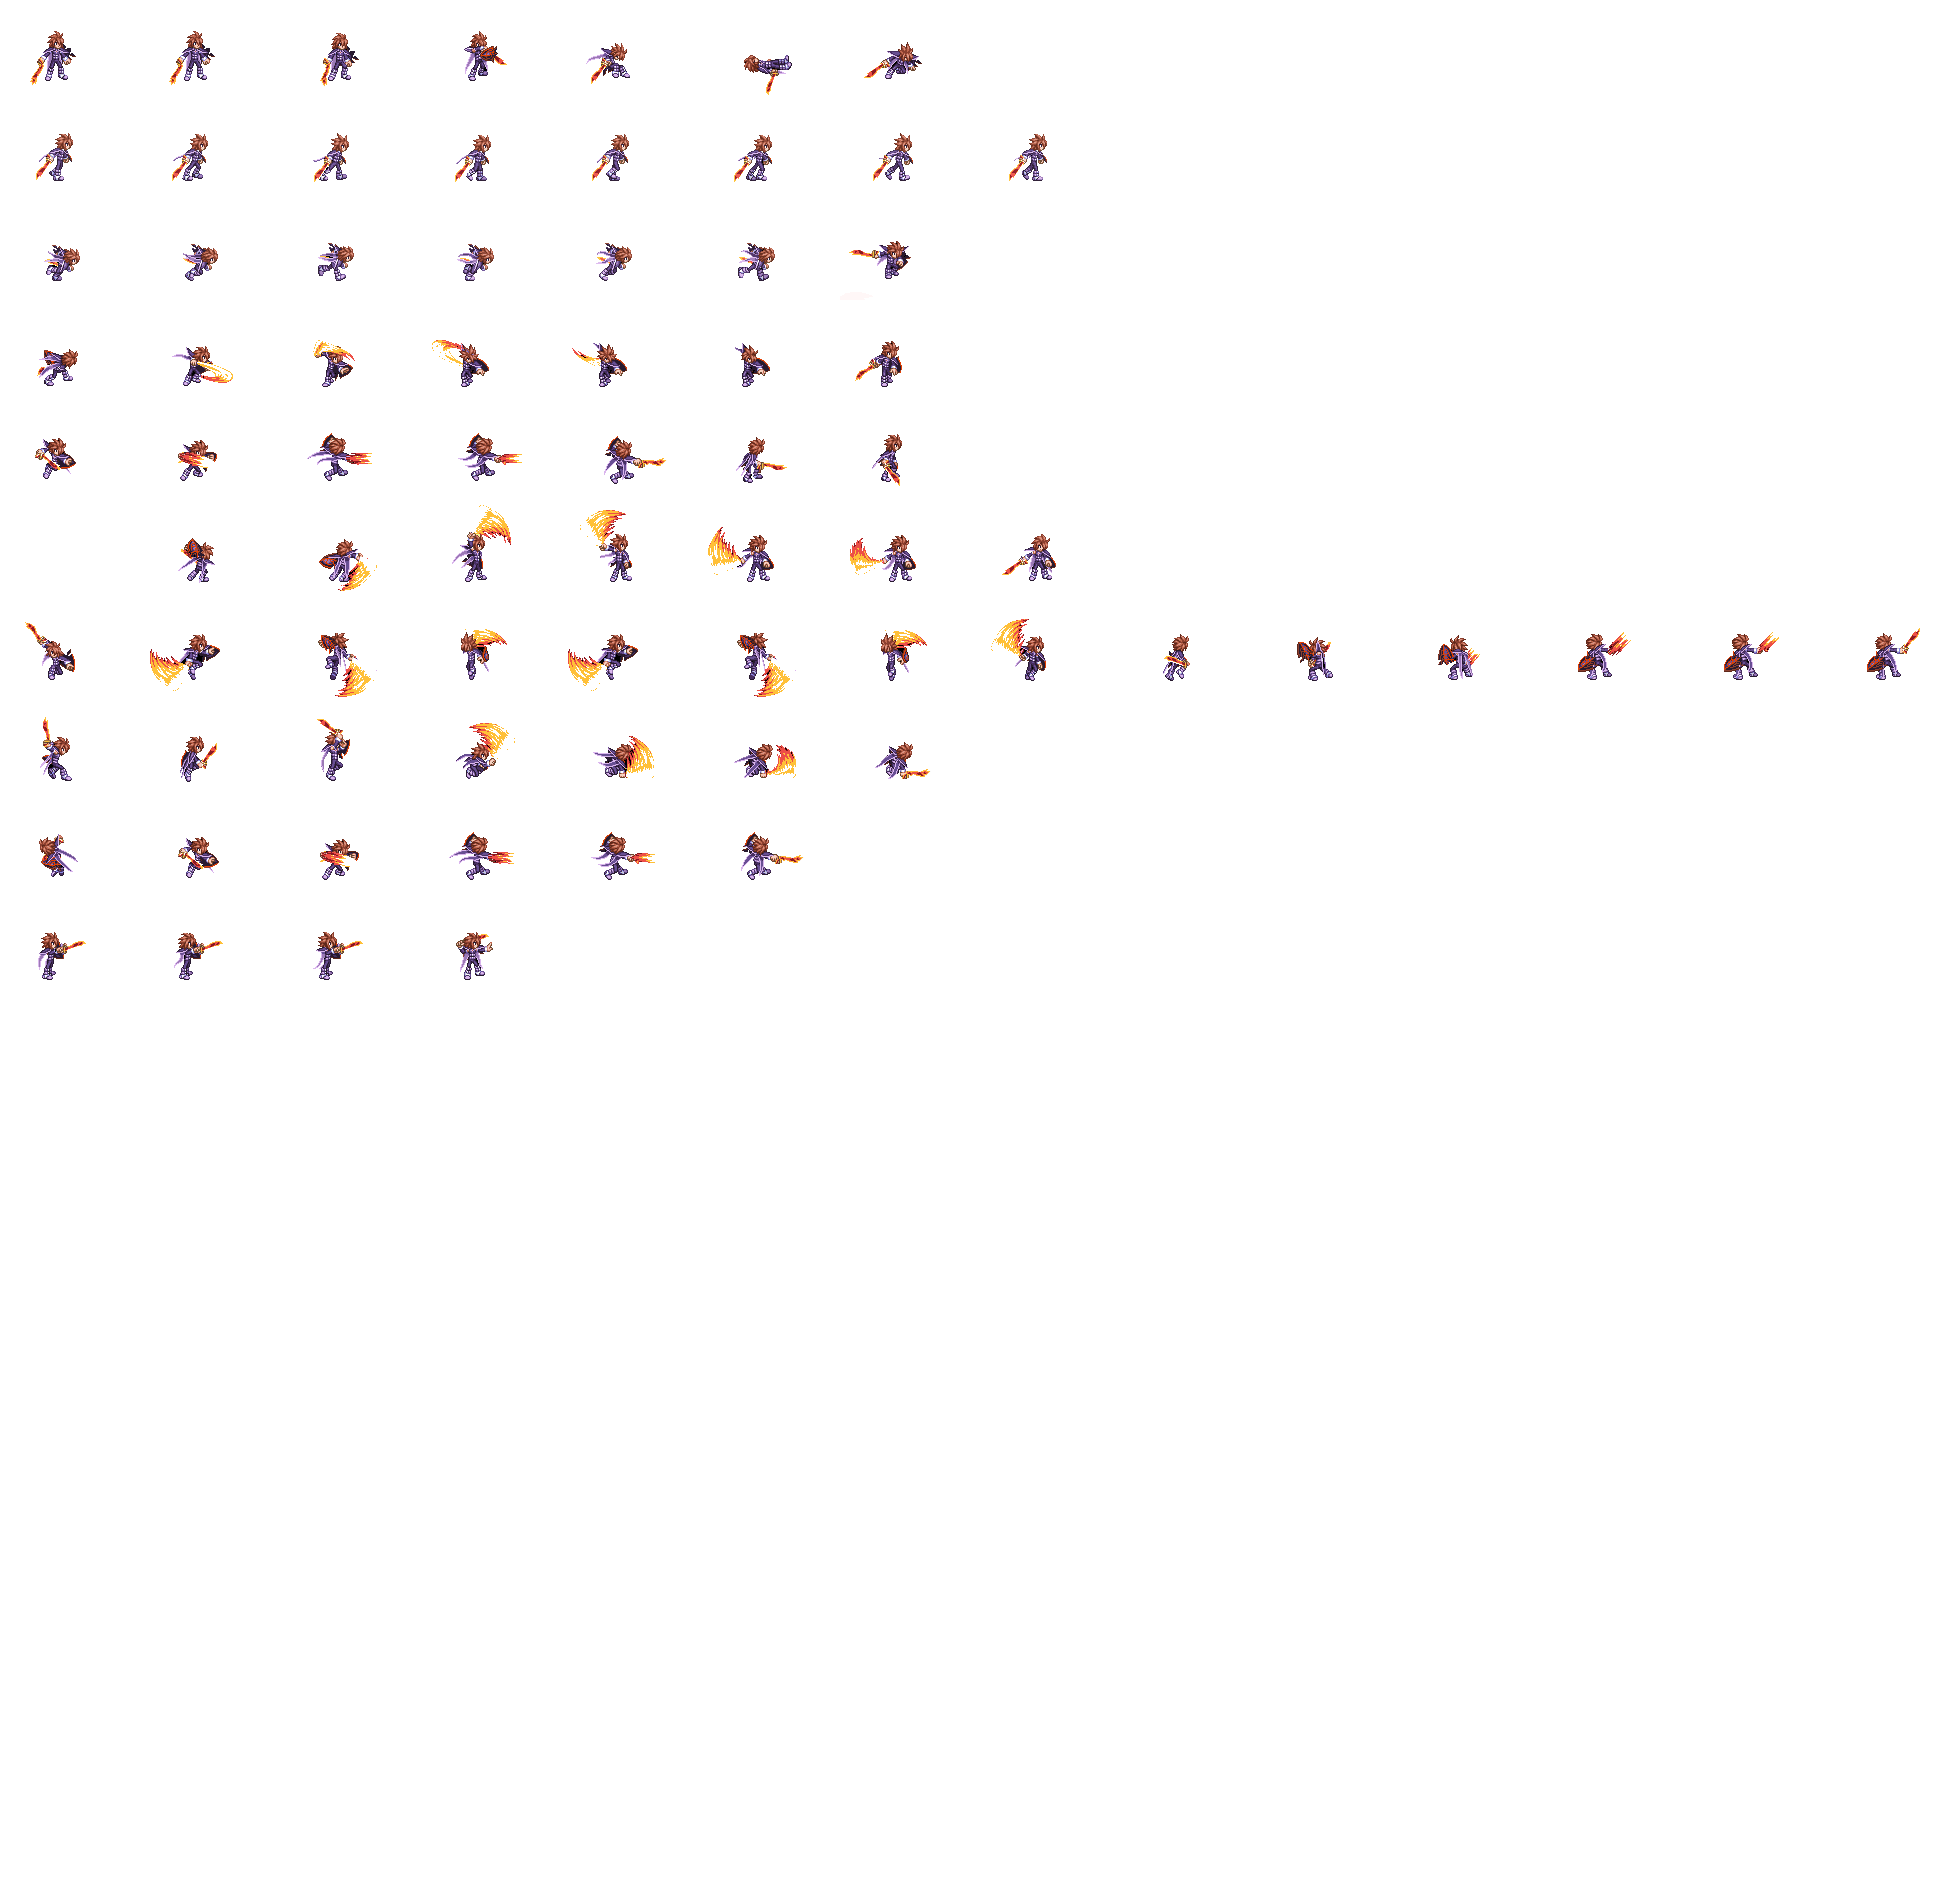
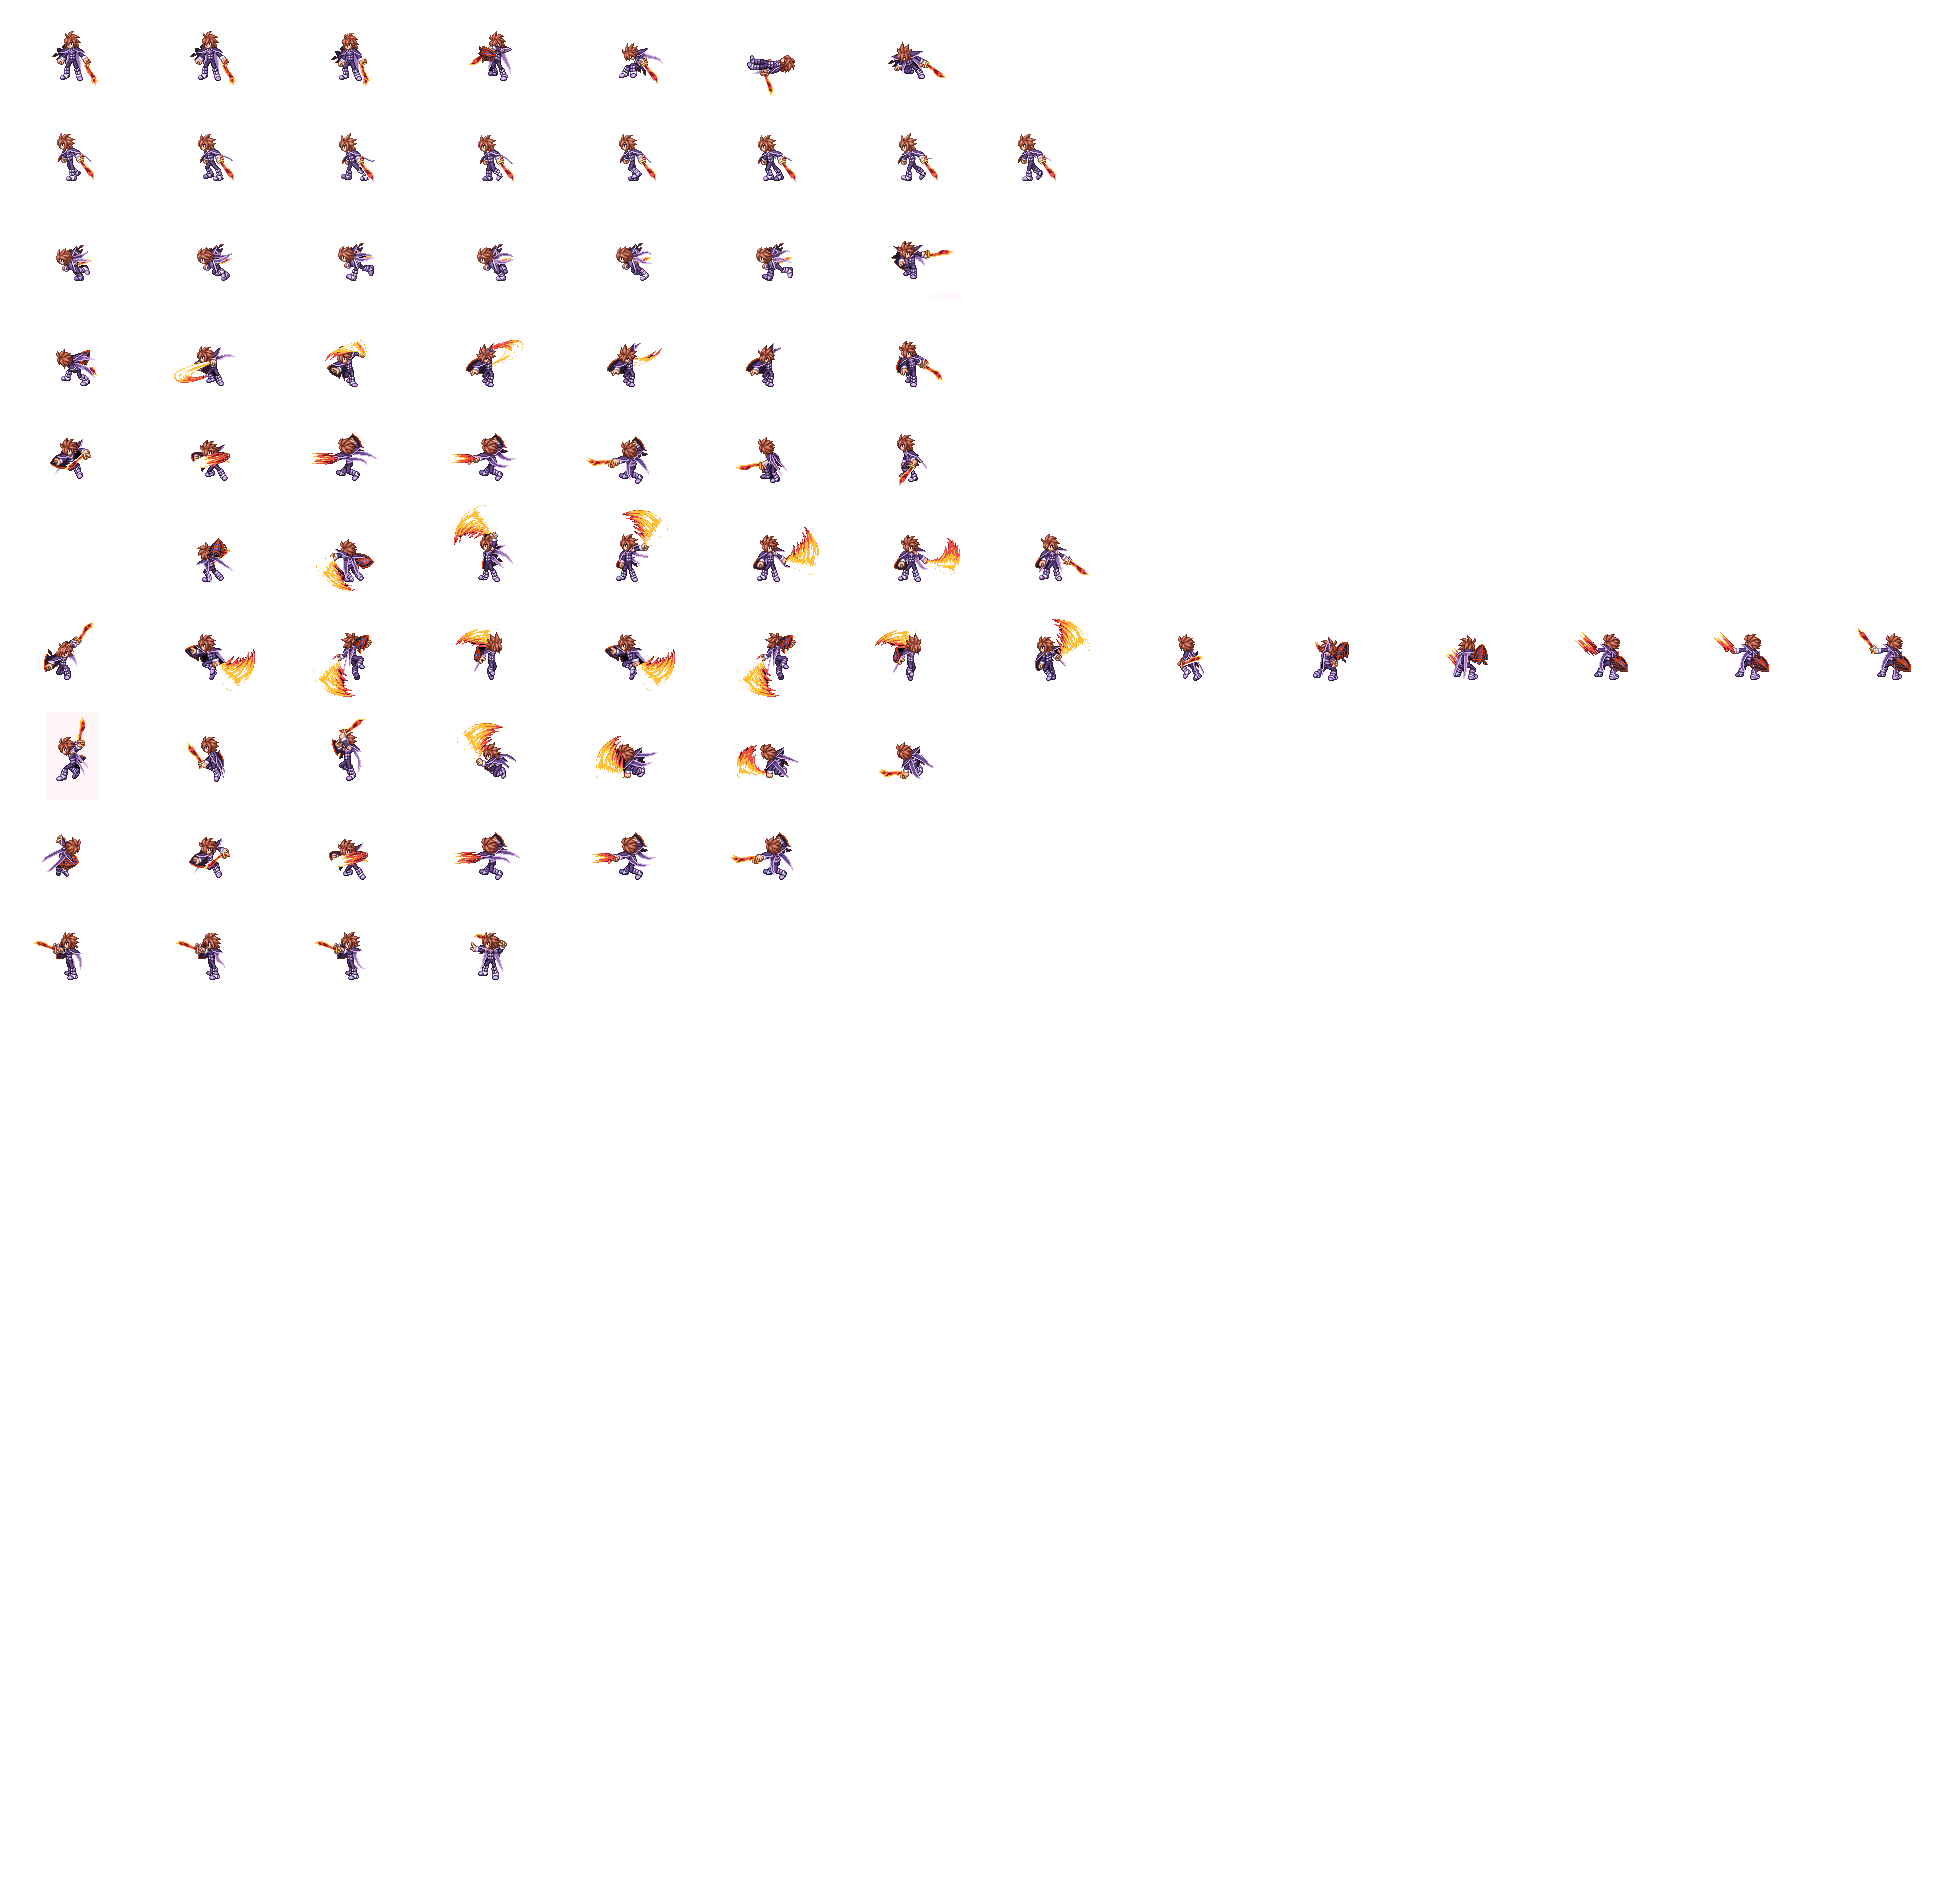
Re-adding kratos sprite with corrections

diff --git a/lib/game/entities/player.js b/lib/game/entities/player.js
@@ -26,7 +26,7 @@ ig.module(
         name: 'Kratos', 
 
         /* Setup player properties */
-        animSheet: new ig.AnimationSheet('media/kratos-d.png', 140, 100), // Animation sheet
+        animSheet: new ig.AnimationSheet('media/kratos-3.png', 140, 100), // Animation sheet
         size: {x: 40, y: 50}, // Size of collision bounding box
         flip: true, // Set flip property to true
         accelGround: 200, // How fast we accelerate for movement on the ground
